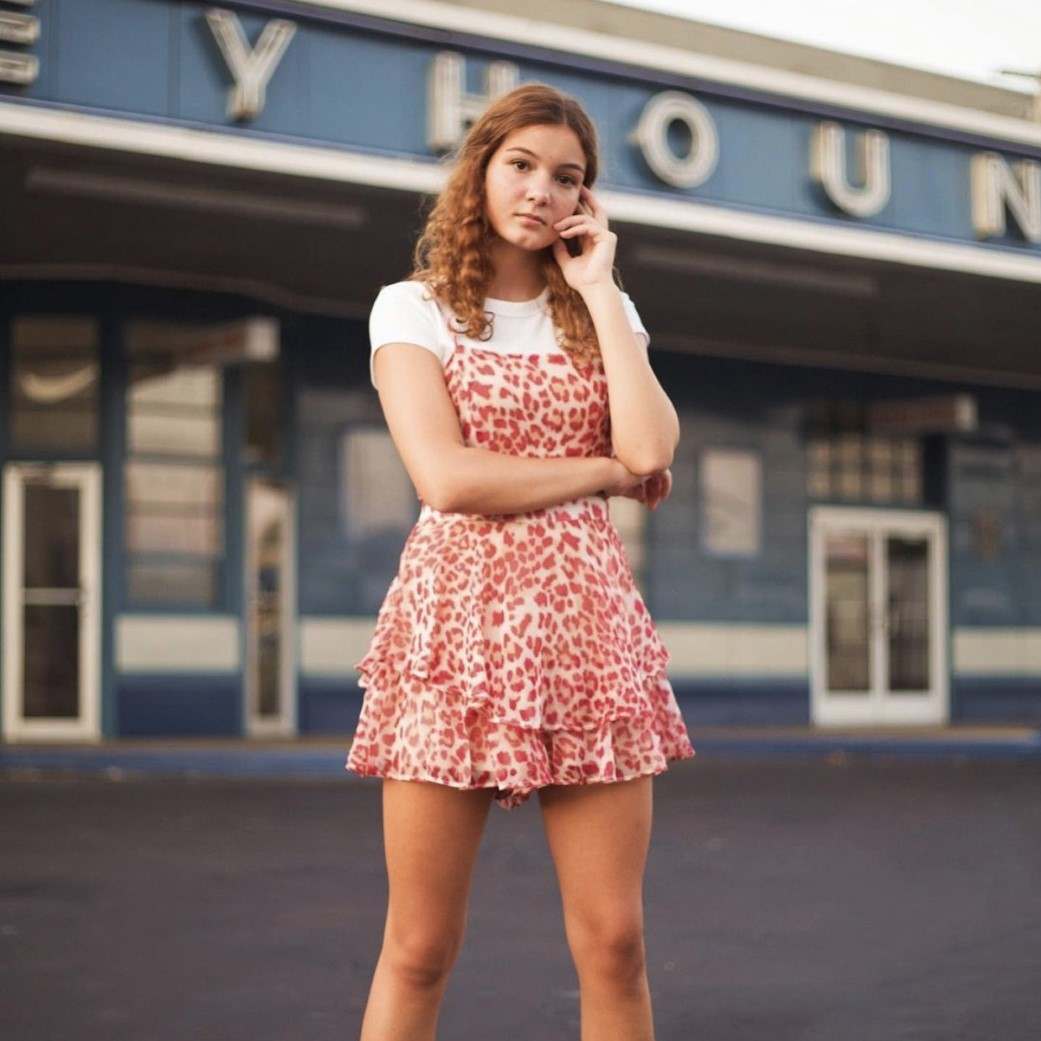
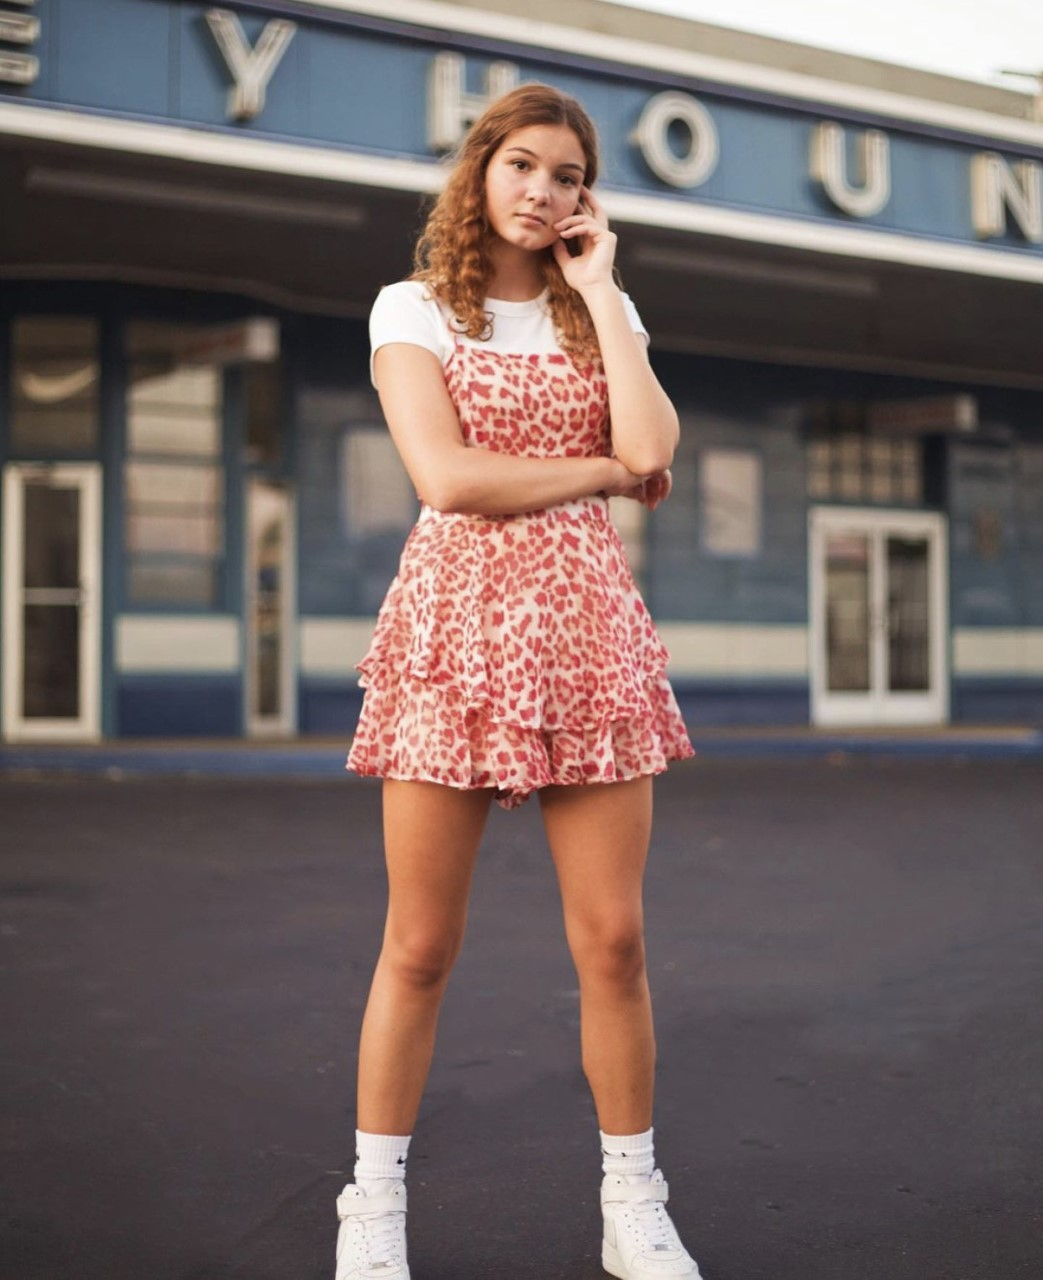
updated html

diff --git a/test.html b/test.html
@@ -39,31 +39,18 @@
   </nav>
 
 
-  <div id="carouselExampleIndicators" class="carousel slide" data-ride="carousel">
-    <ol class="carousel-indicators">
-      <li data-target="#carouselExampleIndicators" data-slide-to="0" class="active"></li>
-      <li data-target="#carouselExampleIndicators" data-slide-to="1"></li>
-      <li data-target="#carouselExampleIndicators" data-slide-to="2"></li>
-    </ol>
-    <div class="carousel-inner">
-      <div class="carousel-item active">
-        <img class="d-block w-100" src="./img/layla.jpg" alt="First slide">
+  <div class="container-fluid">
+    <div class="row">
+      <div class="col-md-4">
+        <img alt="" src="./img/kaylee.jpg" width="480" height="580"/>
       </div>
-      <div class="carousel-item">
-        <img class="d-block w-100" src="./img/kaylee_snider.jpg" alt="Second slide">
+      <div class="col-md-4">
+        <img alt="" src="./img/hadley.jpg" width="480" height="580"/>
       </div>
-      <div class="carousel-item">
-        <img class="d-block w-100" src="./img/hadley.jpg" alt="Third slide">
+      <div class="col-md-4">
+        <img alt="" src="./img/layla.jpg" width="480" height="580"/>
       </div>
     </div>
-    <a class="carousel-control-prev" href="#carouselExampleIndicators" role="button" data-slide="prev">
-      <span class="carousel-control-prev-icon" aria-hidden="true"></span>
-      <span class="sr-only">Previous</span>
-    </a>
-    <a class="carousel-control-next" href="#carouselExampleIndicators" role="button" data-slide="next">
-      <span class="carousel-control-next-icon" aria-hidden="true"></span>
-      <span class="sr-only">Next</span>
-    </a>
   </div>
   </body>
 </html>

diff --git a/style.css b/style.css
@@ -7,7 +7,7 @@
 }
 
 .navbar-expand-lg {
-  background-color:rgb(250, 248, 245);
+  background-color:rgb(255, 255, 255);
 }
 
 a:hover {
@@ -47,11 +47,11 @@ INDEX PAGE
 }
 
 .col-md-4 {
-  padding: 20px;
   text-align: center;
   font-family: garamond;
   font-size:45px;
   color:  rgb(110, 17, 17);
+  margin: 0px;
 }
 
 .card-body {
